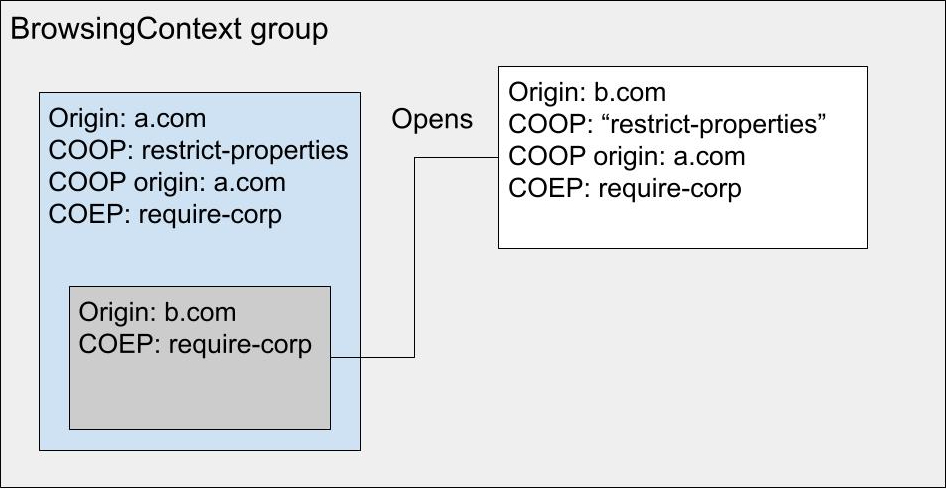
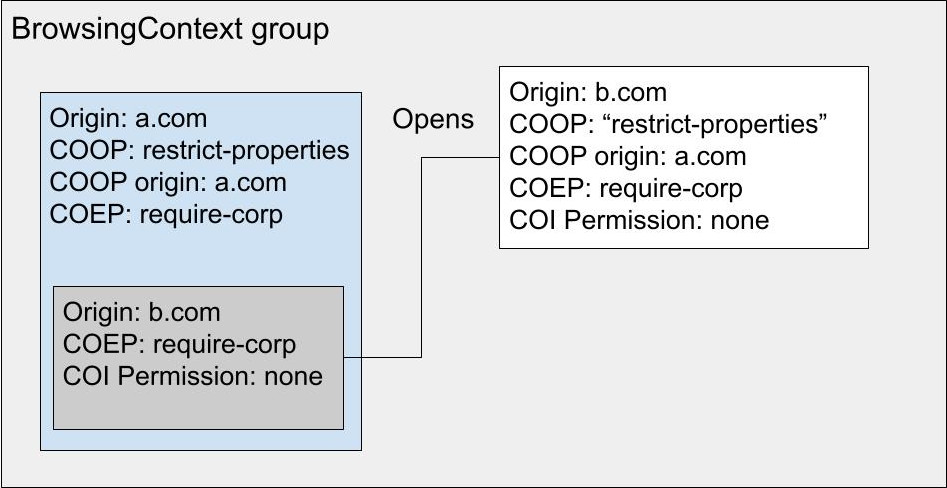
Update following annevk@ comments

diff --git a/docs/cross_origin_iframe_popup.MD b/docs/cross_origin_iframe_popup.MD
@@ -3,21 +3,35 @@
 ## Important if you're reading only this doc
 The latest plan for COOP: restrict-properties is to use a superset of BrowsingContext groups, COOP groups, and to have a map of { COOP: rp, top-level origin, crossOriginIsolated } to BrowsingContext groups in those, similar to the AgentCluster map in BrowsingContext groups themselves.
 
-## Proposal
-We want the initial document of popups opened from iframes cross-origin to their top-level document to inherit COOP. If we don't, we cannot support COOP: restrict-properties, for which we cannot simply set noopener.
+## Requirements
+For COOP: restrict-properties to work, we need:
+* To be able to work with cross-origin iframes opening popups. These are common in the flow we're trying to address. 
+* To use the standard COOP comparison rules for freshly opened popups on their first navigation. Currently we do not inherit COOP for fresh popups opened by cross-origin iframes. So it is always `unsafe-none` to X. This works for current COOP values:
+  * `same-origin-allow-popups` behaves like `unsafe-none` with freshly opened popups.
+  * `same-origin` opens such popups with no-opener.
+  * It does not work with COOP: `restrict-properties` because we need to swap against `unsafe-none`.
 
-We do not currently inherit COOP, because it would mix the origin, inherited from the iframe, with the COOP value, inherited from the top-level document. 
+<br>
 
+We do not currently inherit COOP or use noopener for two reasons:
+* It would mix the origin, inherited from the iframe, with the COOP value, inherited from the top-level document.
+* An initial empty documents from a different origin in the same browsing context group, if crossOriginIsolated, could read the top-level origin, bypassing the PermissionsPolicy that might have been set on the iframe.
 
 ![image](../resources/coop_inheritance_issue.jpg)  
 _By simply inheriting, we break COOP. In this example, everything lives in the same process, which should never be allowed._
 
-</br>
+<br>
 
-Our proposal is to supplement the COOP structure with the origin that initially set it. This way we prevent the mix-up of origins and COOP value. The COOP origin is used exclusively by the COOP algorithm.
+![image](../resources/coop_inheritance_permission_bypass.jpg)  
+_By not using noopener, we've allowed the iframe to exploit crossOriginIsolated APIs, bypassing the PermissionsPolicy set by the embedder._
 
-![image](../resources/coop_inheritance_solution.jpg)  
-_By supplementing COOP with the setting origin, we solve the confusion. In this example, we have two distinct BrowsingContext groups._
+
+## Proposal
+
+Our proposal is to supplement the COOP structure with the origin that initially set it. This way we prevent the mix-up of origins and COOP value. The COOP origin is used exclusively by the COOP algorithm. Initial empty documents that do not have matching origin and COOP origin cannot use crossOriginIsolated APIs.
+
+![image](../resources/coop_inheritance_proposal.jpg)  
+_By supplementing COOP with the setting origin, we are able to correctly separate the two end pages in two distinct browsing context groups. The initial empty document still lives in the opener browsing context group but might not use CrossOriginIsolated APIs._
 
 </br>
 
@@ -30,21 +44,18 @@ _By supplementing COOP with the setting origin, we solve the confusion. In this 
     * Window.open returns synchronously. If we need to wait for potentially another process to be started, we end up with an empty WindowProxy, potentially for hundreds of ms. This would force us to talk about processes in the HTML spec.
     * We would lose synchronous scripting between the iframe and the newly opened document, this probably needs more metrics to know if it is acceptable.
 
-## Additional considerations
-
-### COEP and crossOriginIsolated
-COOP and COEP interactions are important because of cross-origin isolation. COEP is inherited directly from the opener. Cross-origin isolation is a state that lives at the BrowsingContext group level.
+## Details about crossOriginIsolated origin mix
+Some more details about the crossOriginIsolated restriction for pages with mismatched origins and COOP origins:
 
 ![image](../resources/coop_inheritance_coep_1.jpg)  
-_COEP gets passed to the initial empty document because the iframe set it._
+_COOP is inherited from the top-level opener browsing context. COEP gets passed to the initial empty document because the iframe set it. crossOriginIsolated permission is none because COOP origin and origin do not match._
 
 </br>
 
 In the example above, we have multiple top-level origin documents in a BrowsingContext group that is crossOriginIsolated. We believe this is fine:
-* Anything that the iframe does is readable by a.com. This is fine because b.com agreed to that by setting COEP. The fresh popup is required to be in-process, and anything done in there can be read by a.com. A.com cannot get any extra information, because the top-level frame has the same restriction as the iframe. It has COEP so it cannot do new embedding, it has the same origin so it cannot do extra fetch, etc.
+* Anything that the iframe does is readable by a.com. This is fine because b.com agreed to that by setting COEP. The fresh popup is required to be in-process, and anything done in there can be read by a.com. A.com cannot get any extra information, because the top-level frame behaves like the iframe. It has COEP so it cannot do new embedding, it has the same origin so it cannot do extra fetches, etc.
 * In the other direction, b.com can read a.com if the Permissions-Policy is delegated to the iframe. No inheritance mechanism is planned for opened popups. For this reason we explicitely disable crossOriginIsolated permission on all freshly opened popups.
-
-COOP invariants about top-level origins become invariants about top-level COOP origins. The only case where a page can have a COOP origin not equal to its actual origin is the initial empty document. No new capability is added.
+* COOP invariants about top-level origins become invariants about top-level COOP origins. The only case where a page can have a COOP origin not equal to its actual origin is the initial empty document.
 
 </br>
 
@@ -57,7 +68,7 @@ _COEP gets inherited to the popup although only the iframe set it and its top-le
 
 We've simplified the COOP value in the drawings. In reality it is augmented with COEP when it is received from the network, and used alone in the COOP algorithm. In the above picture it still works as intended, because we're inheriting COOP: "restrict-properties" and not "restrict-properties+COEP".
 
-### Origin and CSP
+## Origin and CSP
 Because we're recording the origin along the COOP value, we need to decide what to do with sandboxing, which can make the origin opaque. The current spec mentions that we first compute the sandboxing flags, both inherited and set via CSP, and then if COOP is also set we go to an error page. It is not clear if the whole process is to be applied to redirects. My understanding is that COOP is enforced but CSP is not, creating a discrepency.
 
 A couple of possibilities, undecided yet:
